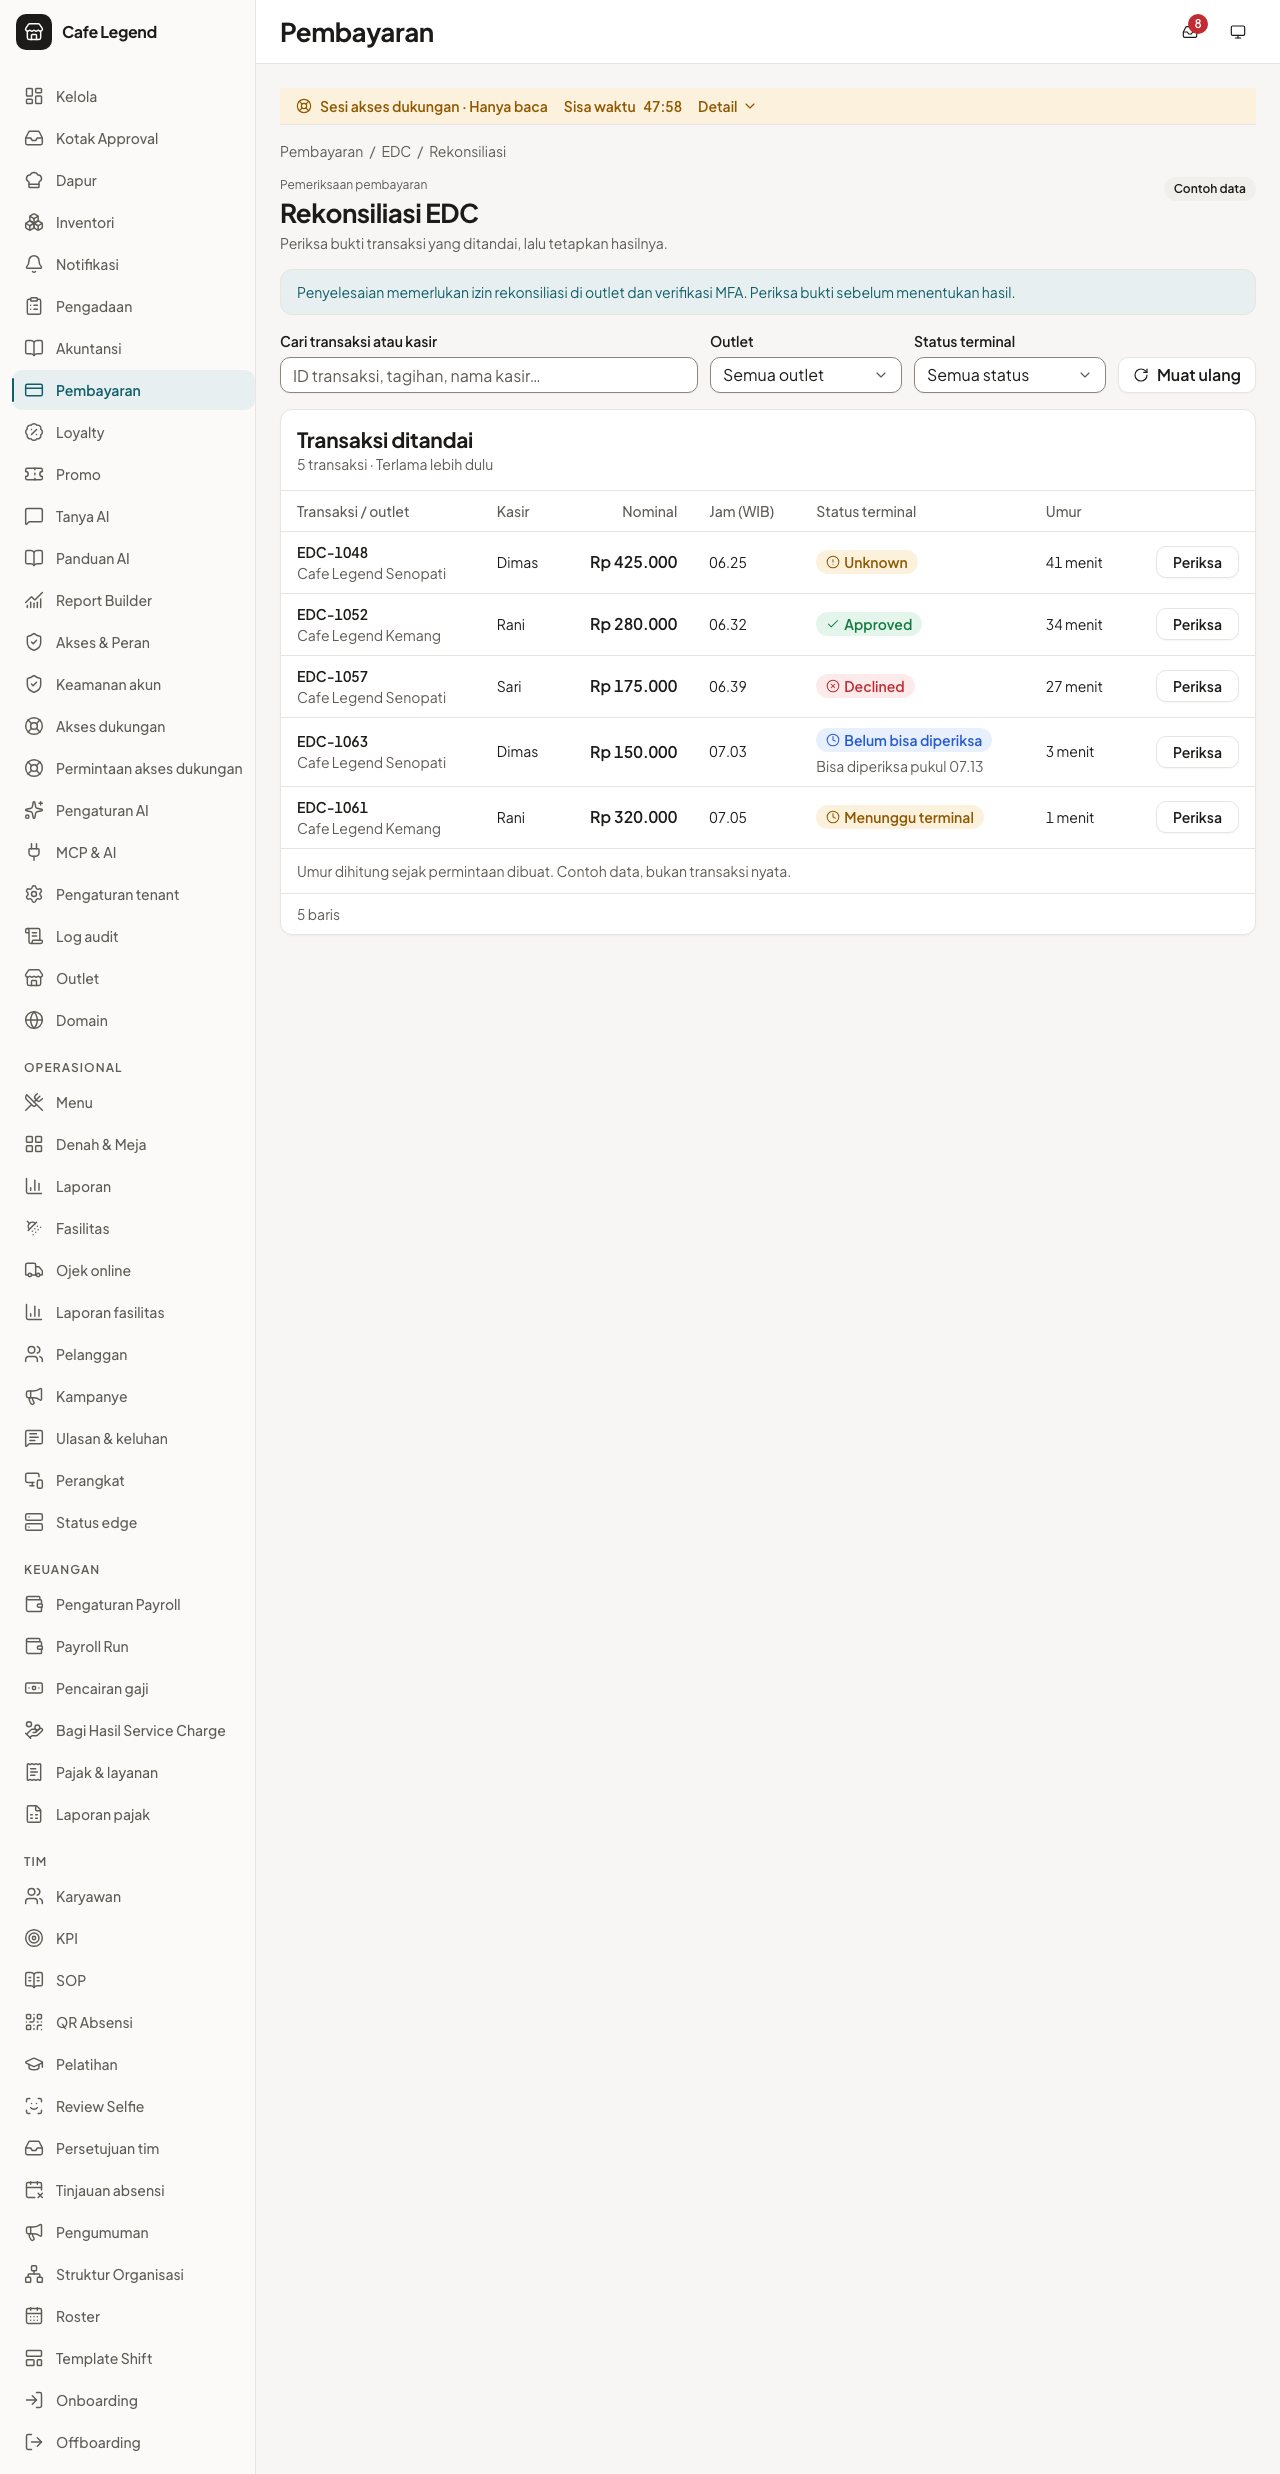
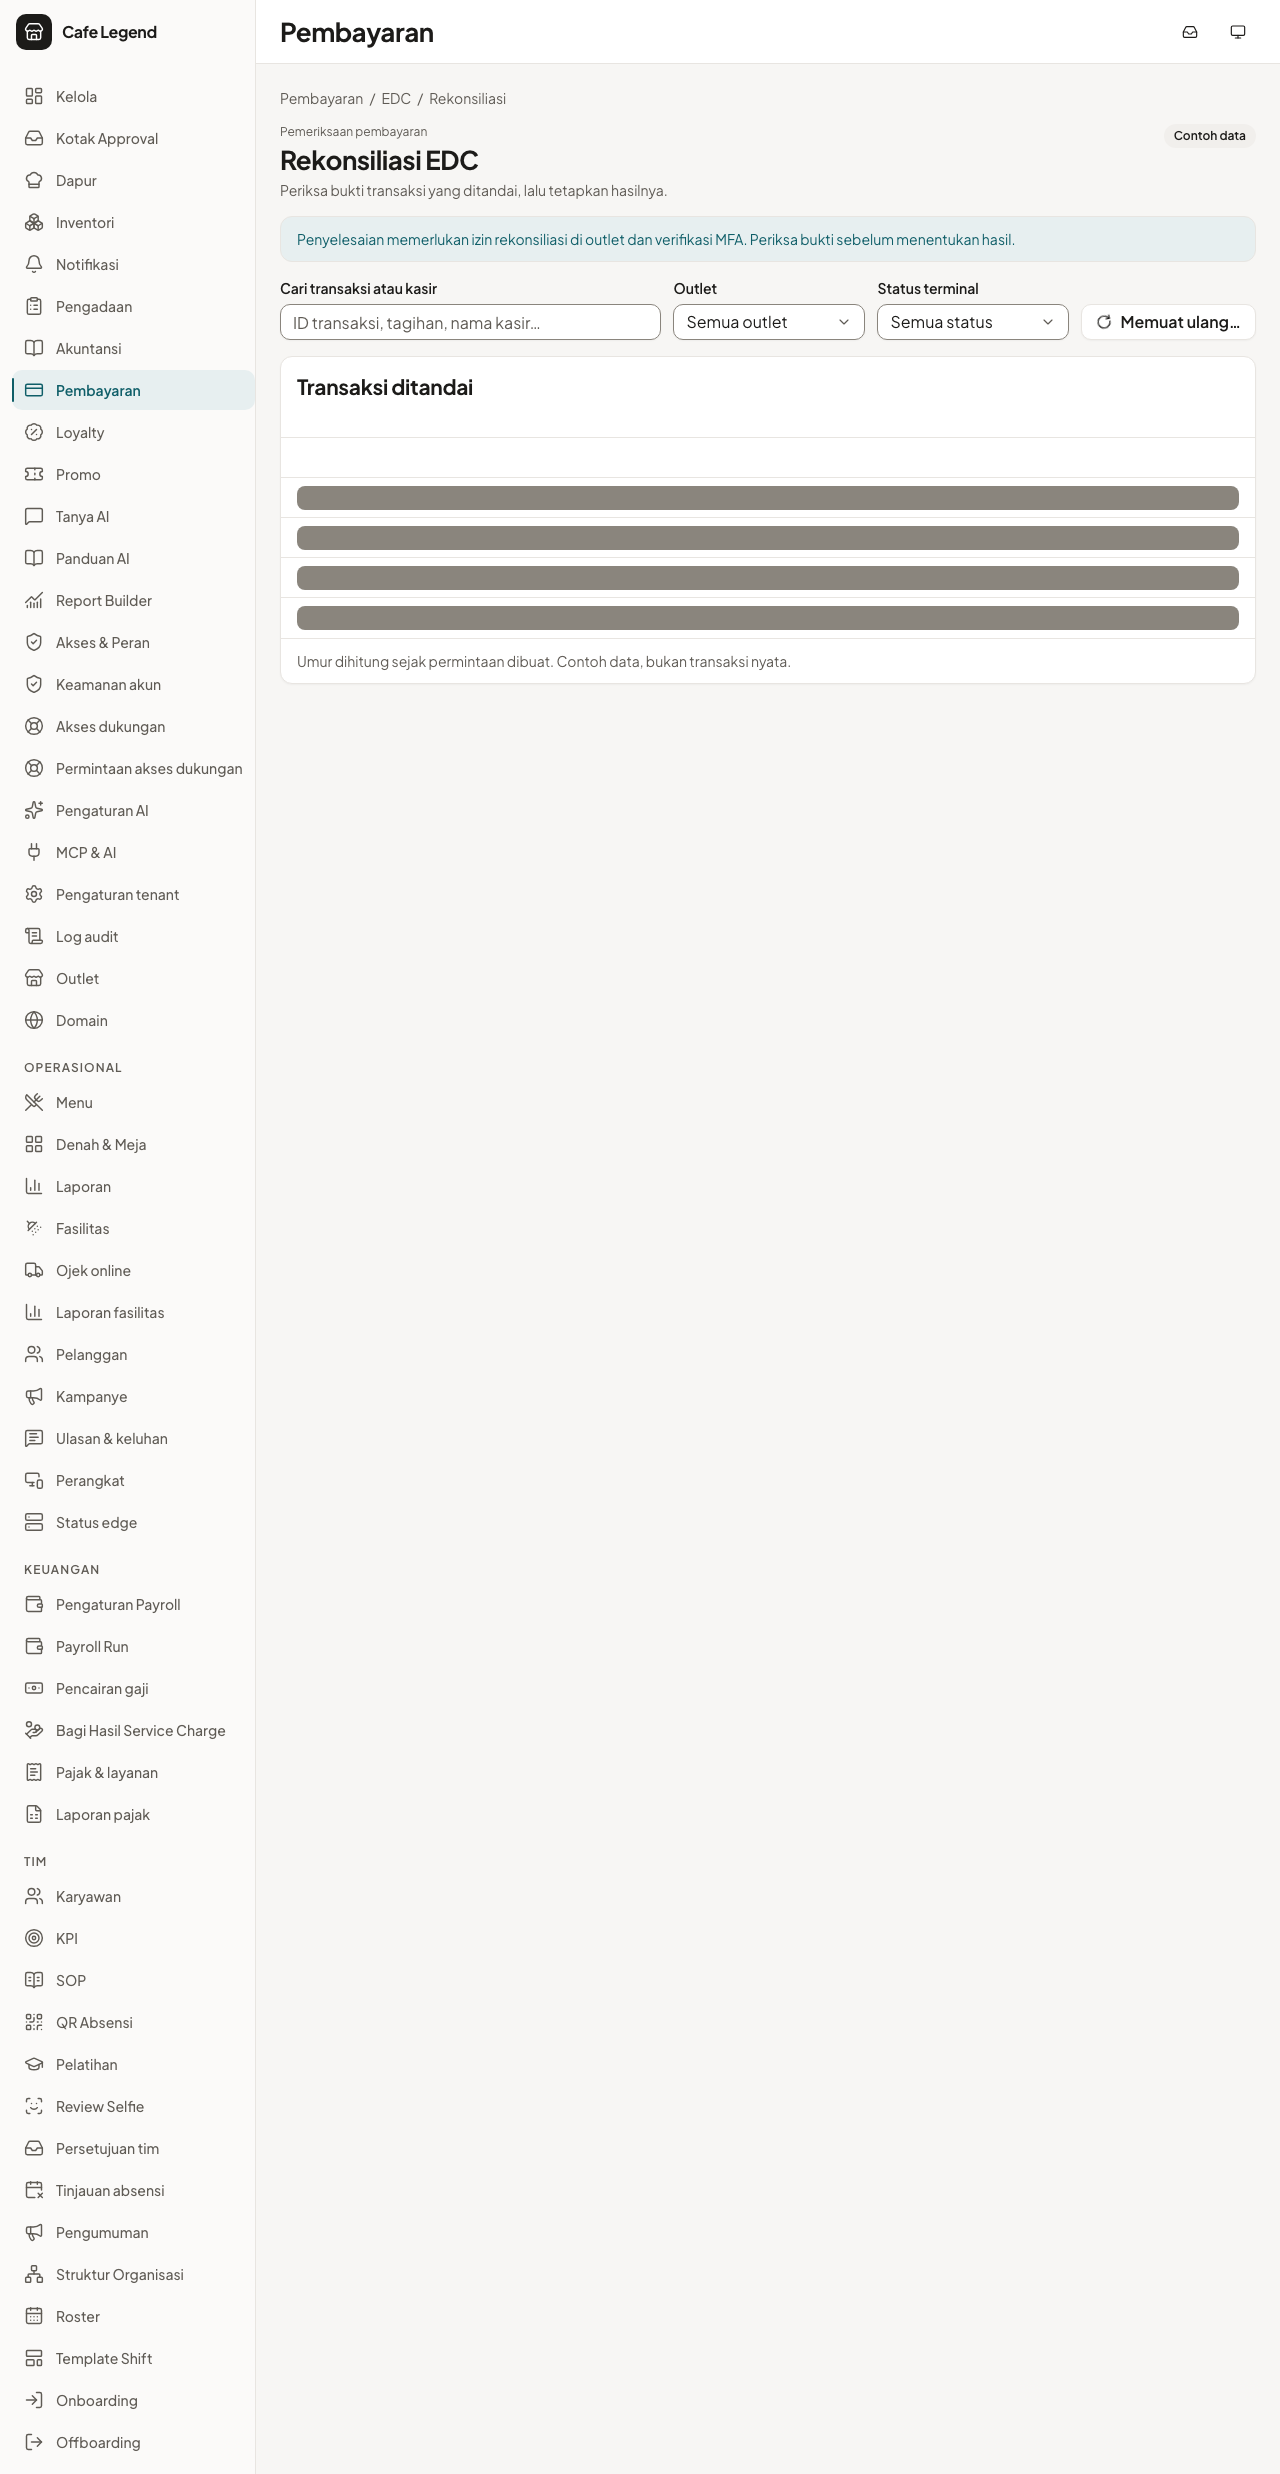
docs(review): founder gate B page for EDC reconciliation (legend-khi8n)
Ghostex page comparing the approved mockup with the final screens at
1280 and 390, the four intentional differences, and question Q9.
Retake list-loading screenshots: the ui-check loading state now waits
for the skeleton itself instead of any role=status element.

Changed region(s): [[0.2188, 0.0311, 0.9688, 0.3424], [0.875, 0.1245, 0.9688, 0.1556]]

diff --git a/docs/review/edc-rekonsiliasi-865.html b/docs/review/edc-rekonsiliasi-865.html
@@ -1,0 +1,109 @@
+<!doctype html>
+<html lang="id">
+<head>
+<meta charset="utf-8">
+<meta name="viewport" content="width=device-width, initial-scale=1">
+<meta name="ghostex-page" content="v2">
+<title>Rekonsiliasi EDC: review layar akhir</title>
+<style>
+  .gx-figure img { border: 1px solid var(--gx-line); border-radius: 8px; }
+</style>
+</head>
+<body>
+<gx-questions submit="Kirim ke CTO">
+  <header>
+    <span class="gx-eyebrow">Pembayaran · review gerbang B</span>
+    <h1>Rekonsiliasi EDC: review layar akhir</h1>
+    <p class="gx-lede">Layar untuk Owner atau Finance Manager memeriksa transaksi kartu EDC yang ditandai lalu menetapkan Approved atau Declined. Layar ini tidak mencatat pembayaran, pencatatan tetap lewat kasir.</p>
+    <div class="gx-chips">
+      <span class="gx-chip"><b>8</b> layar dibandingkan</span>
+      <span class="gx-chip"><b>31</b> tes layar lulus</span>
+      <span class="gx-chip"><b>0</b> masalah aksesibilitas serius</span>
+      <span class="gx-chip">Data contoh</span>
+    </div>
+  </header>
+
+  <gx-wide>
+<h2>Daftar transaksi</h2>
+<p>Daftar transaksi kartu EDC yang ditandai untuk diperiksa. Pemeriksa memilih satu baris untuk membuka detailnya.</p>
+<gx-tabs>
+  <div data-tab="Desktop 1280"><div class="gx-grid" style="--gx-grid-min:300px"><figure class="gx-figure"><img src="/Users/ifanshori99/Projects/legend super app/legend-657a7596/design/mockups/payments/edc-reconciliation/edc-reconciliation-desktop.png" alt="Daftar transaksi, mockup"><figcaption>Mockup</figcaption></figure><figure class="gx-figure"><img src="/Users/ifanshori99/Projects/legend super app/legend-657a7596/docs/review/img/edc-rekonsiliasi-865/list-normal-1280.png" alt="Daftar transaksi, hasil akhir"><figcaption>Hasil akhir</figcaption></figure></div></div>
+  <div data-tab="Ponsel 390"><div class="gx-grid"><figure class="gx-figure"><img src="/Users/ifanshori99/Projects/legend super app/legend-657a7596/design/mockups/payments/edc-reconciliation/edc-reconciliation-mobile.png" alt="Daftar transaksi, mockup"><figcaption>Mockup</figcaption></figure><figure class="gx-figure"><img src="/Users/ifanshori99/Projects/legend super app/legend-657a7596/docs/screenshots/edc-reconciliation/list-normal-390.png" alt="Daftar transaksi, hasil akhir"><figcaption>Hasil akhir</figcaption></figure></div></div>
+</gx-tabs>
+
+<h2>Daftar kosong</h2>
+<p>Tampilan bila tidak ada transaksi yang perlu diperiksa. Tidak ada yang harus dikerjakan.</p>
+<gx-tabs>
+  <div data-tab="Desktop 1280"><div class="gx-grid" style="--gx-grid-min:300px"><figure class="gx-figure"><img src="/Users/ifanshori99/Projects/legend super app/legend-657a7596/design/mockups/payments/edc-reconciliation/empty-desktop.png" alt="Daftar kosong, mockup"><figcaption>Mockup</figcaption></figure><figure class="gx-figure"><img src="/Users/ifanshori99/Projects/legend super app/legend-657a7596/docs/review/img/edc-rekonsiliasi-865/list-empty-1280.png" alt="Daftar kosong, hasil akhir"><figcaption>Hasil akhir</figcaption></figure></div></div>
+  <div data-tab="Ponsel 390"><div class="gx-grid"><figure class="gx-figure"><img src="/Users/ifanshori99/Projects/legend super app/legend-657a7596/design/mockups/payments/edc-reconciliation/empty-mobile.png" alt="Daftar kosong, mockup"><figcaption>Mockup</figcaption></figure><figure class="gx-figure"><img src="/Users/ifanshori99/Projects/legend super app/legend-657a7596/docs/screenshots/edc-reconciliation/list-empty-390.png" alt="Daftar kosong, hasil akhir"><figcaption>Hasil akhir</figcaption></figure></div></div>
+</gx-tabs>
+
+<h2>Daftar gagal dimuat</h2>
+<p>Tampilan bila daftar gagal diambil dari server. Ada tombol untuk mencoba lagi.</p>
+<gx-tabs>
+  <div data-tab="Desktop 1280"><div class="gx-grid" style="--gx-grid-min:300px"><figure class="gx-figure"><img src="/Users/ifanshori99/Projects/legend super app/legend-657a7596/design/mockups/payments/edc-reconciliation/error-desktop.png" alt="Daftar gagal dimuat, mockup"><figcaption>Mockup</figcaption></figure><figure class="gx-figure"><img src="/Users/ifanshori99/Projects/legend super app/legend-657a7596/docs/review/img/edc-rekonsiliasi-865/list-error-1280.png" alt="Daftar gagal dimuat, hasil akhir"><figcaption>Hasil akhir</figcaption></figure></div></div>
+  <div data-tab="Ponsel 390"><div class="gx-grid"><figure class="gx-figure"><img src="/Users/ifanshori99/Projects/legend super app/legend-657a7596/design/mockups/payments/edc-reconciliation/error-mobile.png" alt="Daftar gagal dimuat, mockup"><figcaption>Mockup</figcaption></figure><figure class="gx-figure"><img src="/Users/ifanshori99/Projects/legend super app/legend-657a7596/docs/screenshots/edc-reconciliation/list-error-390.png" alt="Daftar gagal dimuat, hasil akhir"><figcaption>Hasil akhir</figcaption></figure></div></div>
+</gx-tabs>
+
+<h2>Detail transaksi Unknown</h2>
+<p>Detail satu transaksi yang hasilnya belum jelas (Unknown). Pemeriksa memilih Approved atau Declined dan mengetik nominal dari bukti yang dipegang.</p>
+<gx-tabs>
+  <div data-tab="Desktop 1280"><div class="gx-grid" style="--gx-grid-min:300px"><figure class="gx-figure"><img src="/Users/ifanshori99/Projects/legend super app/legend-657a7596/design/mockups/payments/edc-reconciliation/detail-desktop.png" alt="Detail transaksi Unknown, mockup"><figcaption>Mockup</figcaption></figure><figure class="gx-figure"><img src="/Users/ifanshori99/Projects/legend super app/legend-657a7596/docs/review/img/edc-rekonsiliasi-865/detail-unknown-1280.png" alt="Detail transaksi Unknown, hasil akhir"><figcaption>Hasil akhir</figcaption></figure></div></div>
+  <div data-tab="Ponsel 390"><div class="gx-grid"><figure class="gx-figure"><img src="/Users/ifanshori99/Projects/legend super app/legend-657a7596/design/mockups/payments/edc-reconciliation/detail-mobile.png" alt="Detail transaksi Unknown, mockup"><figcaption>Mockup</figcaption></figure><figure class="gx-figure"><img src="/Users/ifanshori99/Projects/legend super app/legend-657a7596/docs/screenshots/edc-reconciliation/detail-unknown-390.png" alt="Detail transaksi Unknown, hasil akhir"><figcaption>Hasil akhir</figcaption></figure></div></div>
+</gx-tabs>
+
+<h2>Terminal masih memproses (terkunci)</h2>
+<p>Mesin EDC masih memproses transaksi ini, jadi penyelesaian dikunci sampai terminal selesai.</p>
+<gx-tabs>
+  <div data-tab="Desktop 1280"><div class="gx-grid" style="--gx-grid-min:300px"><figure class="gx-figure"><img src="/Users/ifanshori99/Projects/legend super app/legend-657a7596/design/mockups/payments/edc-reconciliation/waiting-desktop.png" alt="Terminal masih memproses (terkunci), mockup"><figcaption>Mockup</figcaption></figure><figure class="gx-figure"><img src="/Users/ifanshori99/Projects/legend super app/legend-657a7596/docs/review/img/edc-rekonsiliasi-865/detail-wire-locked-1280.png" alt="Terminal masih memproses (terkunci), hasil akhir"><figcaption>Hasil akhir</figcaption></figure></div></div>
+  <div data-tab="Ponsel 390"><div class="gx-grid"><figure class="gx-figure"><img src="/Users/ifanshori99/Projects/legend super app/legend-657a7596/design/mockups/payments/edc-reconciliation/waiting-mobile.png" alt="Terminal masih memproses (terkunci), mockup"><figcaption>Mockup</figcaption></figure><figure class="gx-figure"><img src="/Users/ifanshori99/Projects/legend super app/legend-657a7596/docs/screenshots/edc-reconciliation/detail-wire-locked-390.png" alt="Terminal masih memproses (terkunci), hasil akhir"><figcaption>Hasil akhir</figcaption></figure></div></div>
+</gx-tabs>
+
+<h2>Konfirmasi penyelesaian</h2>
+<p>Dialog konfirmasi terakhir sebelum keputusan disimpan, supaya tidak salah klik.</p>
+<gx-tabs>
+  <div data-tab="Desktop 1280"><div class="gx-grid" style="--gx-grid-min:300px"><figure class="gx-figure"><img src="/Users/ifanshori99/Projects/legend super app/legend-657a7596/design/mockups/payments/edc-reconciliation/confirmation-desktop.png" alt="Konfirmasi penyelesaian, mockup"><figcaption>Mockup</figcaption></figure><figure class="gx-figure"><img src="/Users/ifanshori99/Projects/legend super app/legend-657a7596/docs/screenshots/edc-reconciliation/resolve-confirm-1280.png" alt="Konfirmasi penyelesaian, hasil akhir"><figcaption>Hasil akhir</figcaption></figure></div></div>
+  <div data-tab="Ponsel 390"><div class="gx-grid"><figure class="gx-figure"><img src="/Users/ifanshori99/Projects/legend super app/legend-657a7596/design/mockups/payments/edc-reconciliation/confirmation-mobile.png" alt="Konfirmasi penyelesaian, mockup"><figcaption>Mockup</figcaption></figure><figure class="gx-figure"><img src="/Users/ifanshori99/Projects/legend super app/legend-657a7596/docs/screenshots/edc-reconciliation/resolve-confirm-390.png" alt="Konfirmasi penyelesaian, hasil akhir"><figcaption>Hasil akhir</figcaption></figure></div></div>
+</gx-tabs>
+
+<h2>Gagal menyimpan</h2>
+<p>Tampilan bila keputusan gagal disimpan. Isian tetap ada dan bisa dicoba lagi.</p>
+<gx-tabs>
+  <div data-tab="Desktop 1280"><div class="gx-grid" style="--gx-grid-min:300px"><figure class="gx-figure"><img src="/Users/ifanshori99/Projects/legend super app/legend-657a7596/design/mockups/payments/edc-reconciliation/save-error-desktop.png" alt="Gagal menyimpan, mockup"><figcaption>Mockup</figcaption></figure><figure class="gx-figure"><img src="/Users/ifanshori99/Projects/legend super app/legend-657a7596/docs/screenshots/edc-reconciliation/resolve-save-error-1280.png" alt="Gagal menyimpan, hasil akhir"><figcaption>Hasil akhir</figcaption></figure></div></div>
+  <div data-tab="Ponsel 390"><div class="gx-grid"><figure class="gx-figure"><img src="/Users/ifanshori99/Projects/legend super app/legend-657a7596/design/mockups/payments/edc-reconciliation/save-error-mobile.png" alt="Gagal menyimpan, mockup"><figcaption>Mockup</figcaption></figure><figure class="gx-figure"><img src="/Users/ifanshori99/Projects/legend super app/legend-657a7596/docs/screenshots/edc-reconciliation/resolve-save-error-390.png" alt="Gagal menyimpan, hasil akhir"><figcaption>Hasil akhir</figcaption></figure></div></div>
+</gx-tabs>
+
+<h2>Berhasil</h2>
+<p>Tampilan setelah keputusan tersimpan, berisi ringkasan hasilnya.</p>
+<gx-tabs>
+  <div data-tab="Desktop 1280"><div class="gx-grid" style="--gx-grid-min:300px"><figure class="gx-figure"><img src="/Users/ifanshori99/Projects/legend super app/legend-657a7596/design/mockups/payments/edc-reconciliation/success-desktop.png" alt="Berhasil, mockup"><figcaption>Mockup</figcaption></figure><figure class="gx-figure"><img src="/Users/ifanshori99/Projects/legend super app/legend-657a7596/docs/review/img/edc-rekonsiliasi-865/resolve-done-1280.png" alt="Berhasil, hasil akhir"><figcaption>Hasil akhir</figcaption></figure></div></div>
+  <div data-tab="Ponsel 390"><div class="gx-grid"><figure class="gx-figure"><img src="/Users/ifanshori99/Projects/legend super app/legend-657a7596/design/mockups/payments/edc-reconciliation/success-mobile.png" alt="Berhasil, mockup"><figcaption>Mockup</figcaption></figure><figure class="gx-figure"><img src="/Users/ifanshori99/Projects/legend super app/legend-657a7596/docs/screenshots/edc-reconciliation/resolve-done-390.png" alt="Berhasil, hasil akhir"><figcaption>Hasil akhir</figcaption></figure></div></div>
+</gx-tabs>
+
+  </gx-wide>
+
+  <h2>Kondisi tambahan (tidak ada di mockup)</h2>
+  <p>Empat kondisi yang muncul di layar akhir tapi tidak digambar di mockup.</p>
+  <div class="gx-grid">
+<figure class="gx-figure"><img src="/Users/ifanshori99/Projects/legend super app/legend-657a7596/docs/screenshots/edc-reconciliation/list-loading-390.png" alt="Daftar saat sedang memuat."><figcaption>Daftar saat sedang memuat.</figcaption></figure>
+<figure class="gx-figure"><img src="/Users/ifanshori99/Projects/legend super app/legend-657a7596/docs/screenshots/edc-reconciliation/detail-too-early-390.png" alt="Detail transaksi yang terlalu baru, belum boleh diselesaikan."><figcaption>Detail transaksi yang terlalu baru, belum boleh diselesaikan.</figcaption></figure>
+<figure class="gx-figure"><img src="/Users/ifanshori99/Projects/legend super app/legend-657a7596/docs/screenshots/edc-reconciliation/resolve-mfa-390.png" alt="Kode MFA diminta hanya bila server menolak karena sesi belum MFA."><figcaption>Kode MFA diminta hanya bila server menolak karena sesi belum MFA.</figcaption></figure>
+<figure class="gx-figure"><img src="/Users/ifanshori99/Projects/legend super app/legend-657a7596/docs/screenshots/edc-reconciliation/resolve-amount-mismatch-390.png" alt="Peringatan bila nominal yang diketik beda dengan nominal permintaan."><figcaption>Peringatan bila nominal yang diketik beda dengan nominal permintaan.</figcaption></figure>
+  </div>
+
+  <h2>Empat hal yang sengaja beda dari mockup</h2>
+  <div class="gx-grid">
+    <div class="gx-card"><h3>1. Hasil dan nominal tidak terisi otomatis</h3><p>Pada transaksi Unknown, pemeriksa harus memilih hasil dan mengetik nominal dari bukti sendiri. Kalau sistem mengisi duluan, orang bisa asal klik setuju tanpa melihat bukti, dan itu bisa merugikan outlet.</p></div>
+    <div class="gx-card"><h3>2. Kode MFA hanya diminta kalau perlu</h3><p>Mockup selalu menampilkan kolom kode. Sekarang kolom muncul hanya bila server menolak karena sesi belum MFA, jadi pemilik yang sudah MFA tidak mengetik dua kali. Keamanan tetap dijaga server.</p></div>
+    <div class="gx-card"><h3>3. Label nominal: "Nominal permintaan"</h3><p>Data yang kita terima hanya nominal yang diminta ke mesin EDC, bukan angka tercetak di struk. Label dibuat jujur supaya tidak salah baca.</p></div>
+    <div class="gx-card"><h3>4. Tombol "Muat ulang status terminal" tidak dibuat</h3><p>Belum ada perintah ke mesin EDC untuk menanyakan status ulang dari layar ini. Pakai tombol "Muat ulang" di daftar. Tombol yang tidak bekerja lebih membingungkan.</p></div>
+  </div>
+  <div class="gx-callout" data-tone="warn">Layar ini masih memakai data contoh. Daftar transaksi asli menunggu satu endpoint backend (kartu legend-p98qi) sebelum bisa dipakai di outlet.</div>
+
+  <gx-question tag="Q9" title="Layar rekonsiliasi EDC ini disetujui?">
+    <gx-choice value="setuju" recommended>Setuju<small>Layar sudah sesuai mockup, empat bedanya masuk akal.</small></gx-choice>
+    <gx-choice value="ada perubahan">Ada perubahan<small>Tulis perubahannya di kotak catatan.</small></gx-choice>
+  </gx-question>
+</gx-questions>
+</body>
+</html>
